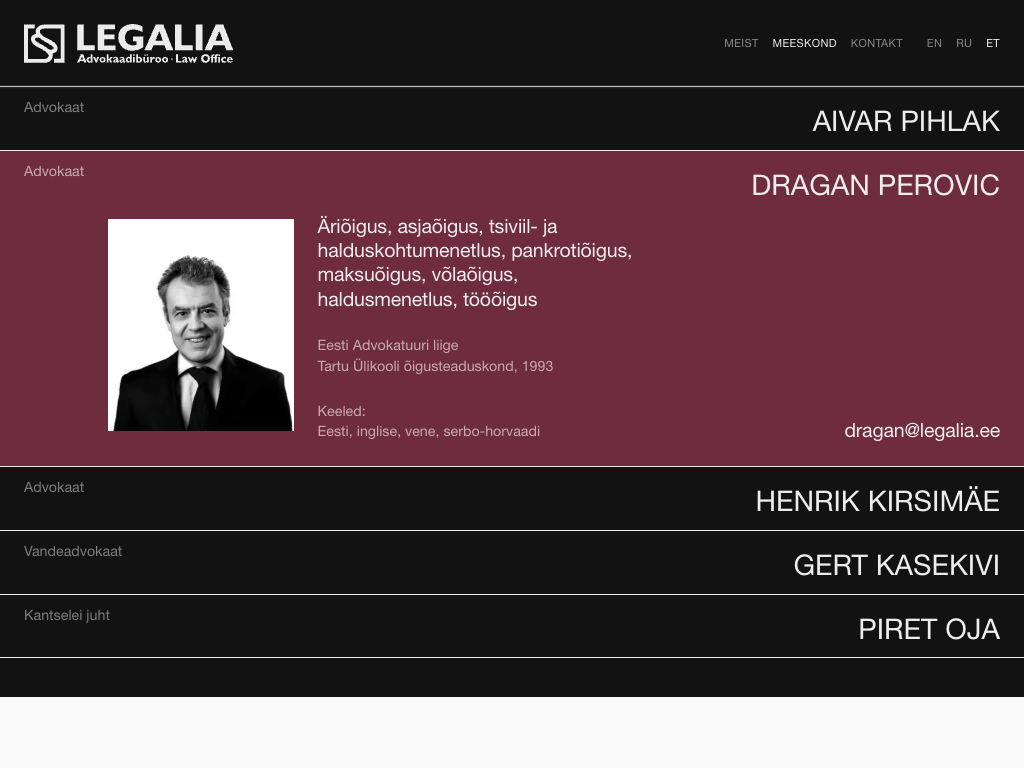
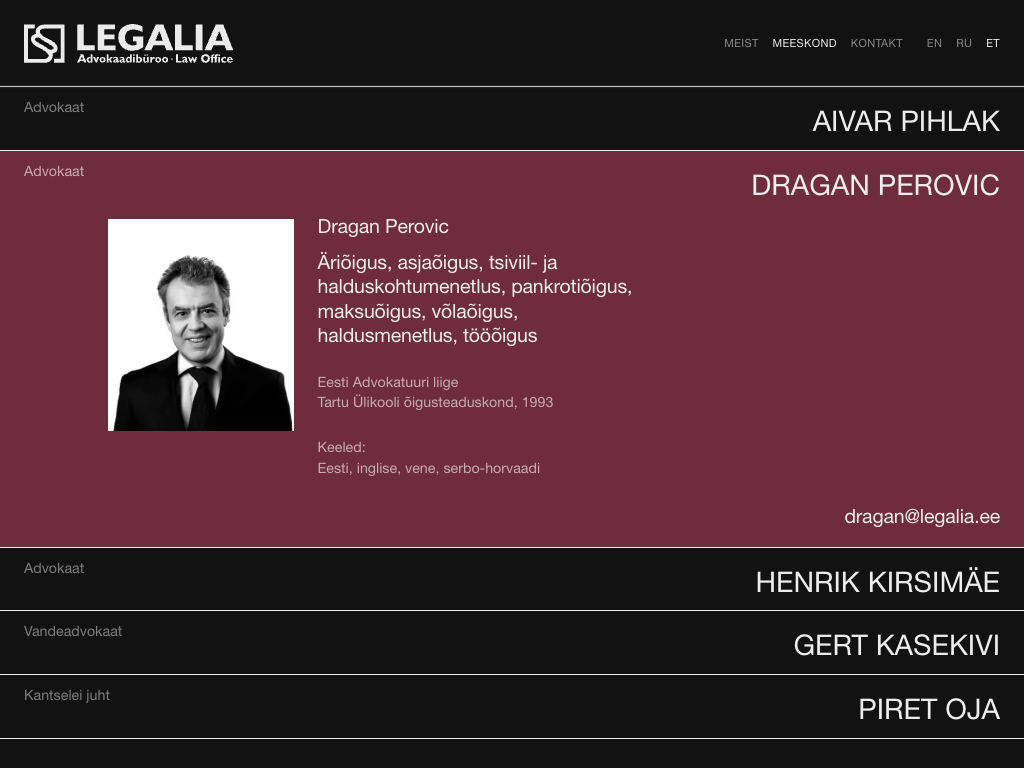
Team details: name over the specialisations, portrait spaced evenly, email mirrors the name

Changed region(s): [[0.0, 0.2812, 1.0, 0.875], [0.0, 0.875, 1.0, 1.0], [0.0312, 0.7812, 0.125, 0.8438]]

diff --git a/css/style.css b/css/style.css
@@ -204,20 +204,24 @@ main{position:relative;z-index:1}
    them; the email on the right and bottom margins. The specialisations are pulled up so their cap
    height meets the portrait's top (Helvetica Neue caps start .281em below the line top at line-height
    1.25). The details let clicks through to the row. */
-.member{--nm:clamp(28px, 2.78vw, 48px);--lift:calc(20px - var(--nm) * .05)}
+.member{--nm:clamp(28px, 2.78vw, 48px);--lift:calc(20px - var(--nm) * .05);--pic-top:calc(40px + var(--nm) * .8 - var(--lift) + var(--gut))}
+/* --pic-top: from the top line to the portrait (the row, less --lift, plus --gut); the same space is kept under the portrait. */
 .more{display:grid;grid-template-rows:0fr;pointer-events:none;transition:grid-template-rows .5s cubic-bezier(.215,.61,.355,1),margin-top .5s cubic-bezier(.215,.61,.355,1)}
 .member.open .more{grid-template-rows:1fr;margin-top:calc(var(--lift) * -1)}
 .more .grid > *{pointer-events:auto}
 .more-in{min-height:0;overflow:hidden;container-type:inline-size}
-.more .grid{--col:calc((100cqw - var(--gut) - var(--gut-r) - 4 * var(--gap)) / 5);display:flex;align-items:flex-start;gap:var(--gut);padding-top:var(--gut);padding-left:calc(var(--gut) + var(--role, 0px) + var(--gut));padding-bottom:var(--gut);opacity:0;transition:opacity .25s ease}
+.more .grid{--col:calc((100cqw - var(--gut) - var(--gut-r) - 4 * var(--gap)) / 5);display:flex;align-items:flex-start;gap:var(--gut);padding-top:var(--gut);padding-left:calc(var(--gut) + var(--role, 0px) + var(--gut));padding-bottom:var(--pic-top);position:relative;opacity:0;transition:opacity .25s ease}
 .member.open .more .grid{opacity:1;transition:opacity .4s ease .12s}
 .portrait{flex:0 0 var(--col);display:block;width:var(--col);height:auto;aspect-ratio:7 / 8;object-fit:cover;background:var(--ink)}
 .txt{flex:0 1 calc(var(--col) * 2 + var(--gap));align-self:stretch;display:flex;flex-direction:column;gap:var(--gut)}
 /* The languages: a label and, a line lower, the list, on the bottom of the block (the portrait's bottom, the email's line). */
 .langs{margin-top:auto;color:var(--on-accent-mute)}
-.spec{margin-top:-.281em;font-size:var(--step-1);line-height:1.25;letter-spacing:-.01em;text-wrap:pretty}
+/* The person's name over their specialisations, its cap height on the portrait's top. */
+.who{margin:-.281em 0 var(--gap);font-size:var(--step-1);line-height:1.25;letter-spacing:-.01em}
+.spec{font-size:var(--step-1);line-height:1.25;letter-spacing:-.01em;text-wrap:pretty}
 .facts{color:var(--on-accent-mute)}
-.mail{margin-left:auto;align-self:flex-end;font-size:var(--step-1);line-height:1.25;letter-spacing:-.01em;transition:color .2s}
+/* The email mirrors the big name: its baseline as far above the bottom line as the name's cap height is below the top line. */
+.mail{position:absolute;right:var(--gut-r);bottom:calc(18.8px + var(--nm) * .1535 - var(--step-1) * .255);font-size:var(--step-1);line-height:1.25;letter-spacing:-.01em;transition:color .2s}
 .mail:hover{color:#fff}
 .mail:focus-visible{outline:1px solid var(--on-ink);outline-offset:4px}
 .member ::selection{background:var(--on-ink);color:var(--accent)}
@@ -250,7 +254,9 @@ main{position:relative;z-index:1}
   .row .nm{padding-block:0;white-space:normal}
   .more .grid{display:grid;row-gap:var(--gut);padding-top:var(--gut);padding-left:var(--gut)}
   .portrait{grid-column:1 / span 3;width:100%}
-  .spec{margin-top:0}
+  .who{margin-top:0}
+  .more .grid{padding-bottom:var(--gut)}
+  .mail{position:static}
   .member{--lift:calc(12px - var(--nm) * .06)} /* the row's height under the name's baseline, on phones */
   .txt,.mail{grid-column:1 / -1;justify-self:start;margin-left:0}
 }

diff --git a/index.html b/index.html
@@ -6,10 +6,10 @@
 <title>Legalia Advokaadibüroo</title>
 <meta name="theme-color" content="#f9f9f9">
 <link rel="icon" href="assets/logo.svg" type="image/svg+xml">
-<link rel="stylesheet" href="css/style.css?v=v2-48">
-<script src="js/i18n.js?v=v2-48" defer></script>
-<script src="js/main.js?v=v2-48" defer></script>
-<script src="js/intro.js?v=v2-48" defer></script>
+<link rel="stylesheet" href="css/style.css?v=v2-49">
+<script src="js/i18n.js?v=v2-49" defer></script>
+<script src="js/main.js?v=v2-49" defer></script>
+<script src="js/intro.js?v=v2-49" defer></script>
 </head>
 <body>
 <!-- All texts live in js/i18n.js. Elements here only carry their key (data-i18n for text, data-i18n-label for aria-label). -->
@@ -105,7 +105,7 @@
     </button>
     <div class="more" inert><div class="more-in"><div class="grid">
       <video class="portrait" data-k="video" muted loop playsinline preload="none" disablepictureinpicture tabindex="-1" aria-hidden="true" width="700" height="800"></video>
-      <div class="txt"><p class="spec" data-k="spec"></p><p class="facts" data-k="cred"></p><div class="langs"><p data-i18n="details.langs"></p><p data-k="lang"></p></div></div>
+      <div class="txt"><div><p class="who" data-k="name"></p><p class="spec" data-k="spec"></p></div><p class="facts" data-k="cred"></p><div class="langs"><p data-i18n="details.langs"></p><p data-k="lang"></p></div></div>
       <a class="mail" data-k="email"></a>
     </div></div></div>
   </li>
